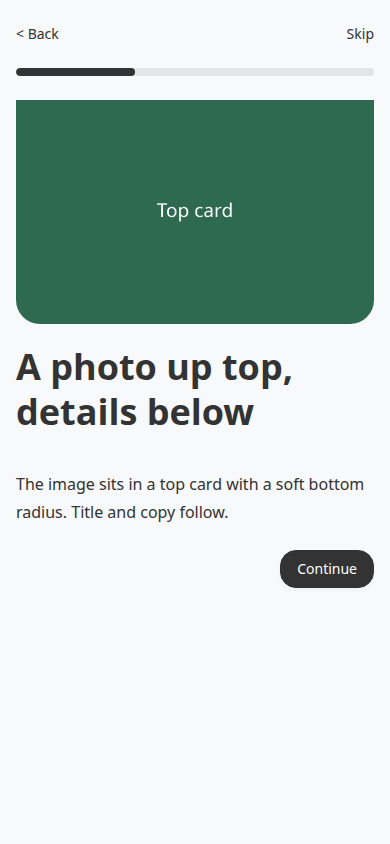
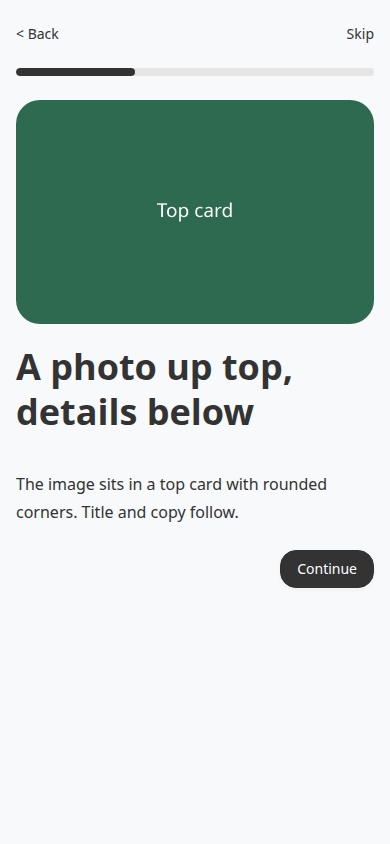
Use full border-radius on PageComponent top-card images
Round all four corners of image_url cards (not only the bottom) and
refresh docs/review top-card desktop/mobile screenshots.

diff --git a/app/components/recording_studio_onboarding/page_component.rb b/app/components/recording_studio_onboarding/page_component.rb
@@ -71,7 +71,7 @@ module RecordingStudioOnboarding
     def top_image_frame
       content_tag(
         :div,
-        class: "w-full overflow-hidden rounded-b-[var(--radius-lg)] bg-[var(--surface-muted-background-color)]"
+        class: "w-full overflow-hidden rounded-[var(--radius-lg)] bg-[var(--surface-muted-background-color)]"
       ) { helpers.image_tag(@image_url, alt: @image_alt, class: "block h-56 w-full object-cover sm:h-72") }
     end
 

diff --git a/test/dummy/app/components/dummy/onboarding/top_card_page_component.rb b/test/dummy/app/components/dummy/onboarding/top_card_page_component.rb
@@ -8,7 +8,7 @@ module Dummy
           run: run,
           step: step,
           title: "A photo up top, details below",
-          content: "<p>The image sits in a top card with a soft bottom radius. Title and copy follow.</p>",
+          content: "<p>The image sits in a top card with rounded corners. Title and copy follow.</p>",
           image_url: "/demos/onboarding/top-card.jpg"
         )
       end

diff --git a/CHANGELOG.md b/CHANGELOG.md
@@ -21,7 +21,7 @@ and this project adheres to [Semantic Versioning](https://semver.org/spec/v2.0.0
 - Permanent chrome: plain-text **`< Back`** (top-left) and **`Skip`** (top-right)
   via `ChromeComponent`. Back hides on the first step; Skip follows `skippable`.
 - Default `PageComponent` page fields: `splash_image_url` (fullscreen + tinted
-  overlay), `image_url` (top card with bottom radius), `title`, and HTML
+  overlay), `image_url` (top card with full border-radius), `title`, and HTML
   `content`. When both image fields are set, splash wins.
 - `button_positions` on each step (`:left`, `:right`, `:full`) for bottom
   Continue placement.

diff --git a/README.md b/README.md
@@ -105,7 +105,7 @@ Subclass or instantiate `RecordingStudioOnboarding::PageComponent` with:
 | Field | Meaning |
 |--------|---------|
 | `splash_image_url` | Full-bleed image; title + content overlay with a dark gradient tint |
-| `image_url` | Top card image with bottom border-radius; title + content below |
+| `image_url` | Top card image with border-radius on all corners; title + content below |
 | `title` | Page title |
 | `content` | HTML body (sanitized) |
 
